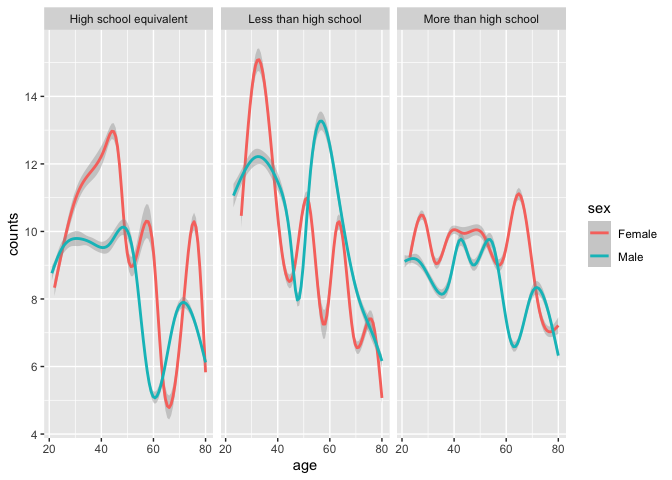
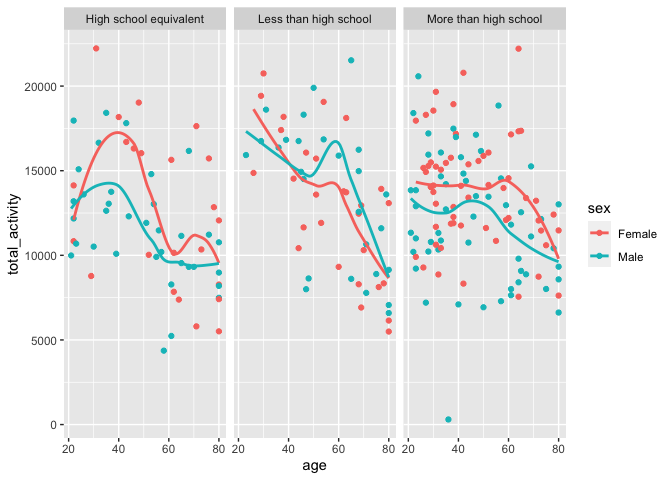
add description to code and comment to graph

diff --git a/P8105_hw3_jl6648.md b/P8105_hw3_jl6648.md
@@ -14,13 +14,13 @@ data("brfss_smart2010")
 
 ``` r
 brfss_df =
-  brfss_smart2010 |>
-  janitor::clean_names() |>
-  filter(topic == "Overall Health") |>
-  separate(locationdesc, into = c("state", "county"), sep = " - ") |>
+  brfss_smart2010 |>                                                                     #load dataset
+  janitor::clean_names() |>                                                     # clean variable names
+  filter(topic == "Overall Health") |>                                   #select interested variable  
+  separate(locationdesc, into = c("state", "county"), sep = " - ") |>     #separate into two variables
   filter(response == "Excellent" | response == "Very good" | response == "Good" | 
-         response == "Fair" | response == "Poor") |>
-  mutate(response = as.factor(response),
+         response == "Fair" | response == "Poor") |>                       #select interested response
+  mutate(response = as.factor(response),            #organize responses as a factor taking levels order
          response = ordered(response, levels = c("Excellent", "Very good", "Good", "Fair", "Poor"))) 
 ```
 
@@ -30,24 +30,24 @@ In 2002, which states were observed at 7 or more locations? What about
 in 2010?
 
 ``` r
-prob1_q1_02 = filter(brfss_df, year == 2002) |>
-  group_by(state) |>
-  summarize(n_obs = n_distinct(county)) |>
-  filter(n_obs >= 7) 
+prob1_q1_02 = filter(brfss_df, year == 2002) |>                           # select rows with year 2002
+  group_by(state) |>                                                             # group data by state
+  summarize(n_obs = n_distinct(county)) |>       #sum the number of different county within each state
+  filter(n_obs >= 7)                                              # filter county larger or equal to 7
 
-state_2002 = pull(prob1_q1_02, state)
+state_2002 = pull(prob1_q1_02, state)                                               # show these states
 ```
 
 In 2002, following states CT, FL, MA, NC, NJ, PA were observed at 7 or
 more location
 
 ``` r
-prob1_q1_10 = filter(brfss_df, year == 2010) |>
-  group_by(state) |>
-  summarize(n_obs = n_distinct(county)) |>
-  filter(n_obs >= 7) 
+prob1_q1_10 = filter(brfss_df, year == 2010) |>                            # select rows with year 2010
+  group_by(state) |>                                                              # group data by state
+  summarize(n_obs = n_distinct(county)) |>        #sum the number of different county within each state
+  filter(n_obs >= 7)                                               # filter county larger or equal to 7
 
-state_2010 = pull(prob1_q1_10, state)
+state_2010 = pull(prob1_q1_10, state)                                               # show these states
 ```
 
 In 2010, following states CA, CO, FL, MA, MD, NC, NE, NJ, NY, OH, PA,
@@ -58,19 +58,22 @@ SC, TX, WA were observed at 7 or more location
 ``` r
 brfss_excellent =
 brfss_df |>
-  filter(response == "Excellent") |>
-  select(year, state, county, response, data_value) |>
-  group_by(year, state)
+  filter(response == "Excellent") |>                                  #filter only Excellent responses 
+  group_by(year, state) |>                                               #group date by year and state
+  summarise(avg_data = mean(data_value, na.rm = T))  
+                                               #add variable to take average of data_value with a state
 
+#make a plot to show the average value over time within a state, use lab to lable the graph
 brfss_excellent |>
-ggplot(aes(x = year, y = data_value)) +
-  geom_line(aes(color = state)) +
+ggplot(aes(x = year, y = avg_data, color = state)) +     
+  geom_path() +
   labs(
     title = "average value over time within a state",
     x = "Year",
     y = "average value",
     caption = "Data from the p8105.datasets package"
-  ) 
+  ) +
+  theme_minimal()                                                     # make the background looks clear
 ```
 
 ![](P8105_hw3_jl6648_files/figure-gfm/unnamed-chunk-5-1.png)<!-- -->
@@ -79,15 +82,17 @@ ggplot(aes(x = year, y = data_value)) +
 
 ``` r
 brfss_NY =
-  brfss_df |> 
-  filter(state == "NY") |>
-  filter(year == 2006 | year == 2010) |>
-  select(year, state, county, response, data_value) |>
-  group_by(year, state)
+  brfss_df |>                                                                        # load the dataset
+  filter(state == "NY") |>                                                            # select NY state
+  filter(year == 2006 | year == 2010) |>                                    # select year 2006 and 2010
+  select(year, state, county, response, data_value) |>                    # select interested variables
+  group_by(year, state)                                               # group dataset by year and state
 
+# make a plot to show distribution of data_value for responses (“Poor” to “Excellent”) among locations in NY State, use lab to lable the graph
 brfss_NY |>
-ggplot(aes(x = year, y = data_value)) +
-  geom_line(aes(color = county)) +
+ggplot(aes(x = response, y = data_value)) +
+  geom_boxplot() +  
+  facet_wrap(~ year, ncol = 2) +
   labs(
     title = "average value among locations in NY states in 2006 and 2010",
     x = "Year",
@@ -102,98 +107,110 @@ ggplot(aes(x = year, y = data_value)) +
 
 ``` r
 covar_df =
-  read_csv("nhanes_covar.csv") |>
-  janitor::clean_names() |>
-  filter(age >= 21) |>
-   mutate(                                  
+  read_csv("nhanes_covar.csv", skip = 4) |>                                         # read the dataset
+  janitor::clean_names() |>                                                     # clean variable names
+  filter(age >= 21) |>                                                        # remove people under 21
+   mutate(             # mutate sex and education variable to show character instead of numeric number
     sex = replace(sex, sex == 2, "Female"),
     sex = replace(sex, sex == 1, "Male"),
     education = replace(education, education == 1, "Less than high school"),
     education = replace(education, education == 2, "High school equivalent"),
     education = replace(education, education == 3, "More than high school")
    ) |>
-  mutate(sex = as.factor(sex),
+  mutate(sex = as.factor(sex),                           # mutate sex and education as factor variable 
          education = as.factor(education)
-  )
+  ) |>
+  na.omit()                                                               # remove any na from the data
 ```
-
-    ## Rows: 250 Columns: 5
-    ## ── Column specification ────────────────────────────────────────────────────────
-    ## Delimiter: ","
-    ## dbl (5): SEQN, sex, age, BMI, education
-    ## 
-    ## ℹ Use `spec()` to retrieve the full column specification for this data.
-    ## ℹ Specify the column types or set `show_col_types = FALSE` to quiet this message.
 
 ``` r
 accel_df =
-  read_csv("nhanes_accel.csv") |>
-  janitor::clean_names()
+  read_csv("nhanes_accel.csv") |>                                                       # read dataset
+  janitor::clean_names() |>                                                     # clean variable names 
+  pivot_longer(                                             # make the dataset longer instead of wider 
+    min1:min1440,
+    names_to = "number",
+    values_to = "counts",
+    names_prefix = "min"
+  )
 ```
-
-    ## Rows: 250 Columns: 1441
-    ## ── Column specification ────────────────────────────────────────────────────────
-    ## Delimiter: ","
-    ## dbl (1441): SEQN, min1, min2, min3, min4, min5, min6, min7, min8, min9, min1...
-    ## 
-    ## ℹ Use `spec()` to retrieve the full column specification for this data.
-    ## ℹ Specify the column types or set `show_col_types = FALSE` to quiet this message.
 
 ``` r
 combine_df =
-  inner_join(covar_df, accel_df, by = "seqn")
+  left_join(covar_df, accel_df, by = "seqn")                                 # join these two dataset
 ```
 
 ### Produce a reader-friendly table for the number of men and women in each education category
 
 ``` r
 sex_education_table =
-  select(combine_df, sex | education) 
+  select(covar_df, sex | education)           # select interested variable including sex and educaiton
   
-table(sex_education_table)
+table(sex_education_table)                                                            # show the table 
 ```
 
     ##         education
     ## sex      High school equivalent Less than high school More than high school
-    ##   Female                     23                    29                    59
-    ##   Male                       36                    28                    56
+    ##   Female                     23                    28                    59
+    ##   Male                       35                    27                    56
+
+at the High school equivalent education level, the number of males is
+larger than the number of females; at less the high school and more than
+high school education level, the number of females is larger than the
+number of males. For the total number of people in each education level,
+more than high school contains the largest number of people, high school
+equivalent contains 2nd largest number of people, and less than high
+school contains the least number of people.
 
 ### create a visualization of the age distributions for men and women in each education category
 
 ``` r
-agedistri_edu =
-  select(combine_df, sex | education | age) 
+# plot a graph to show the age distributions for men and women in each education category, group people by their education level and gender. use lab to label the graph
 
-ggplot(agedistri_edu) +
-  geom_boxplot(aes(x = education, y = age, color = sex)) +
-  labs(
-    title = "age distributions for men and women in each education category",
-    x = "category of education",
-    y = "age",
-  )
+covar_df |>
+ggplot(aes(x = age, fill = sex )) +
+  geom_density(alpha = .5) +
+  facet_grid(. ~ education)
 ```
 
 ![](P8105_hw3_jl6648_files/figure-gfm/unnamed-chunk-11-1.png)<!-- -->
+
+``` r
+  labs(
+    title = "age distributions for men and women in each education category",
+    x = "age",
+    y = "density",
+  ) +
+  theme_minimal()
+```
+
+    ## NULL
+
+according to the graph: as age increase, the number of females exceed
+the number of males at high school equivalent and less than high school
+education level. At the young and mid age, the number of females exceed
+the number of males only at more than high school education level. It
+indicates, more and more young females receive higher level education
+compared with people of last generations. Younger generation tend to
+have higher education level compared with mid to old age generation.
 
 ### Plot these total activities (y-axis) against age (x-axis)
 
 ``` r
 accel_clean = 
-  combine_df |>
-  pivot_longer(
-    min1:min1440,
-    names_to = "number",
-    values_to = "counts",
-    names_prefix = "min"
+  combine_df |>                                                                         # load dataset 
+  group_by(seqn, sex, age, education) |>                          # group data by interested variables
+  summarize(
+    total_activity = sum(counts)                                   # sum total activities for each seqn
   )
 
+# plot a graph to show the relationship between total activities and age for each participants. group people by sex and education level as well. use lab to lable the graph
 accel_clean |>
-ggplot(aes(x = age, y = counts)) +
-  geom_smooth(aes(color = sex)) +
+ggplot(aes(x = age, y = total_activity, color = sex)) +
+  geom_point() +
+  geom_smooth(se = FALSE) +
   facet_grid(. ~ education)
 ```
-
-    ## `geom_smooth()` using method = 'gam' and formula = 'y ~ s(x, bs = "cs")'
 
 ![](P8105_hw3_jl6648_files/figure-gfm/unnamed-chunk-12-1.png)<!-- -->
 
@@ -217,13 +234,27 @@ ggplot(aes(x = age, y = counts)) +
     ## attr(,"class")
     ## [1] "labels"
 
+at high school equivalent and more than high school education level,
+overall females activity is higher than males. at less than high school
+education level, the overall males activity is higher than females. No
+matter education level and gender, total activity decreases as the age
+increases.
+
 ### Make a three-panel plot that shows the 24-hour activity time courses for each education level and use color to indicate sex.
 
 ``` r
-accel_clean |>
-ggplot(aes(x = number, y = counts)) +
-  geom_line(aes(color = sex)) +
+# plot a graph to show the relationship between 24-hour activity time courses for each participants. group people by sex and education level as well. use lab to lable the graph
+
+combine_df |>
+ggplot(aes(x = number, y = counts, group = seqn, color = sex)) +
+  geom_line(alpha = .2) +
   facet_grid(. ~ education) +
+  geom_smooth(aes(group = sex), se = FALSE)
+```
+
+![](P8105_hw3_jl6648_files/figure-gfm/unnamed-chunk-13-1.png)<!-- -->
+
+``` r
   labs(
     title = "total activities over 24-hour",
     x = "time(mins)",
@@ -231,4 +262,14 @@ ggplot(aes(x = number, y = counts)) +
   ) 
 ```
 
-![](P8105_hw3_jl6648_files/figure-gfm/unnamed-chunk-13-1.png)<!-- -->
+    ## $x
+    ## [1] "time(mins)"
+    ## 
+    ## $y
+    ## [1] "total activities"
+    ## 
+    ## $title
+    ## [1] "total activities over 24-hour"
+    ## 
+    ## attr(,"class")
+    ## [1] "labels"
